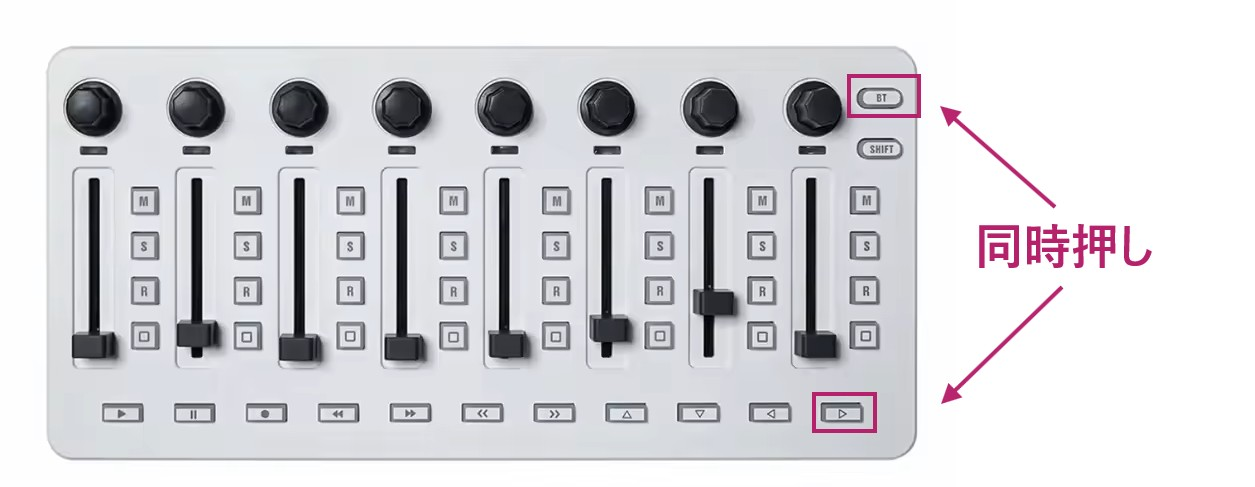
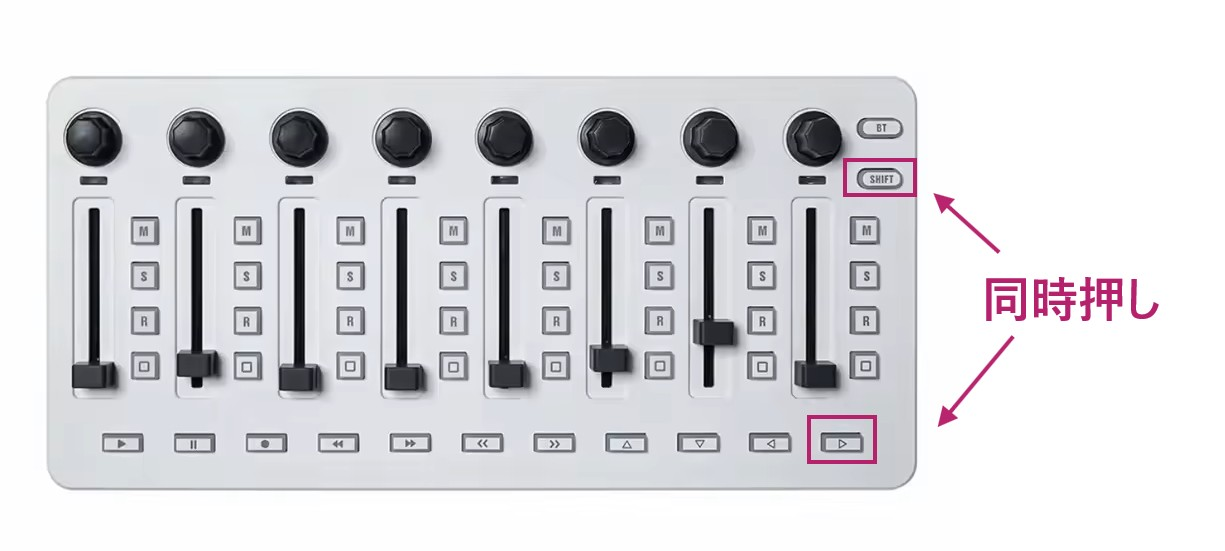
Build 2026-08-28 13:33:35

Changed region(s): [[0.031, 0.0924, 0.9616, 0.9548], [0.8065, 0.616, 0.8376, 0.6776]]

diff --git a/blog/2026/08/28/m-vave-smc-mixer-sh4derjockey/index.html b/blog/2026/08/28/m-vave-smc-mixer-sh4derjockey/index.html
@@ -204,7 +204,7 @@ text-gray-500 hover:bg-gray-100 hover:text-gray-900 dark:text-gray-300 dark:hove
     
     
   </div></nav><article class="w-full break-words flex min-h-[calc(100vh-var(--navbar-height))] min-w-0 justify-center pb-8 pr-[calc(env(safe-area-inset-right)-1.5rem)]"><main class="w-full min-w-0 max-w-6xl px-6 pt-4 md:px-12"><h1 class="mt-2 text-4xl font-bold tracking-tight text-slate-900 dark:text-slate-100" data-pagefind-meta=title data-pagefind-body>M-VAVE SMC-MixerをSh4derJockeyでワイヤレス利用する</h1><div class="mt-4 mb-16"><div class="text-gray-500 dark:text-gray-300 text-sm flex items-center flex-wrap gap-y-2"><span class=mr-1>Aug 28, 2026</span><span class=mx-1>·</span><div class="group inline-flex items-center text-current gap-x-1.5 mx-1"><img src=/media/authors/gam0022_hu_53cc7620d937d819.webp width=16 height=16 alt=gam0022 class="inline-block h-4 w-4 rounded-full border border-current" loading=lazy><div>gam0022</div></div><span class=mx-1>·</span>
-<span class=mx-1>7 min read</span></div><div class=mt-3></div></div><div class="article-header article-container featured-image-wrapper mt-4 mb-16" style=max-width:720px;max-height:405px><div style=position:relative><img srcset="/blog/2026/08/28/m-vave-smc-mixer-sh4derjockey/IMG_6858_hu_fd8ee1b1d63af9c8.webp 320w, /blog/2026/08/28/m-vave-smc-mixer-sh4derjockey/IMG_6858_hu_fbc32adf688050cd.webp 480w, /blog/2026/08/28/m-vave-smc-mixer-sh4derjockey/IMG_6858_hu_ce37842d0c3b878c.webp 640w, /blog/2026/08/28/m-vave-smc-mixer-sh4derjockey/IMG_6858_hu_5ccb41e8fb5055c6.webp 720w, /blog/2026/08/28/m-vave-smc-mixer-sh4derjockey/IMG_6858_hu_7ea46ed98e0dd1a1.webp 720w" sizes="(max-width: 480px) 100vw, (max-width: 640px) 90vw, (max-width: 720px) 80vw, 720px" src=/blog/2026/08/28/m-vave-smc-mixer-sh4derjockey/IMG_6858_hu_fd8ee1b1d63af9c8.webp data-pagefind-meta=image[src] width=720 height=405 alt class=featured-image fetchpriority=high></div></div><div class="prose prose-slate lg:prose-xl dark:prose-invert max-w-full main-content" data-pagefind-body><span data-pagefind-filter=type style=display:none>blog</span><p>M-VAVE SMC-Mixer（<a href=https://link.amazon/B0iX1y3Iu target=_blank rel=noopener>KORG nanoKONTROL2</a>によく似た形状のワイヤレス対応のMIDIコントコーラー）をAliExpressで購入したので、Windows 11へBluetooth MIDIで接続し、<a href=https://github.com/slerpyyy/sh4der-jockey target=_blank rel=noopener>Sh4derJockey</a>のMIDIコントローラーとしてワイヤレスで利用できるようにしました。</p><p>Windowsでは専用のBLE-MIDI接続ソフトが必要だったほか、配布されているSinco Connectorだけでは必要なDLLが不足してクラッシュする問題にも遭遇しました。本記事では、実際に接続できた手順とトラブルシューティングをまとめます。</p><blockquote class=twitter-tweet data-conversation=none><p lang=ja dir=ltr>アリエクで買ったMIDIコン（M-VAVE SMC-Mixer）が無事に届きました！<br><br>中国から発送なのに4日で届いてすごい…<br><br>電源つけたら光ってかっこいい✨<br><br>nanoKONTROL2と並べるとちょうど良さそうなサイズ感でした <a href=https://t.co/8DYq8m32JH>pic.twitter.com/8DYq8m32JH</a></p>&mdash; がむ (@gam0022) <a href="https://x.com/gam0022/status/2092221796804444382?ref_src=twsrc%5Etfw">August 25, 2026</a></blockquote><script async src=https://platform.x.com/widgets.js></script><h2 id=smc-mixerをuserccモードにする>SMC-MixerをUSER／CCモードにする</h2><p>SMC-Mixerの電源を入れ、<code>SHIFT</code>を押しながら右側のボタンを押します。</p><p><figure><div class="flex justify-center"><div class=w-full><img alt=SMC-MixerをUSER／CCモードにする srcset="/blog/2026/08/28/m-vave-smc-mixer-sh4derjockey/user_cc_mode_hu_6b9db82c7c14680c.webp 320w, /blog/2026/08/28/m-vave-smc-mixer-sh4derjockey/user_cc_mode_hu_7e41080a76330b1a.webp 480w, /blog/2026/08/28/m-vave-smc-mixer-sh4derjockey/user_cc_mode_hu_99ac897ce48fe153.webp 760w" sizes="(max-width: 480px) 100vw, (max-width: 768px) 90vw, (max-width: 1024px) 80vw, 760px" src=/blog/2026/08/28/m-vave-smc-mixer-sh4derjockey/user_cc_mode_hu_6b9db82c7c14680c.webp width=760 height=295 loading=lazy data-zoomable></div></div></figure></p><p><code>SHIFT</code>を押している間に右側のボタンが点灯すれば、USER／CCモードです。左側が点灯する場合はDAWモードです。</p><p>Sh4derJockeyではフェーダーやノブを通常のMIDI CCとして扱いたいため、USER／CCモードを使用します。</p><h2 id=sinco-connectorをインストールする>Sinco Connectorをインストールする</h2><p>WindowsでBLE-MIDIを利用するため、<a href=https://www.m-vave.com/download target=_blank rel=noopener>M-VAVE公式ダウンロードページ</a>の「Other Software」タブから「Sinco Connector」をインストールします。</p><p>SMC-Mixerの<code>BT</code>ボタンを長押しすると、青いランプが点滅してBluetooth接続待ちになります。Sinco Connectorを起動し、一覧から<code>SMC-Mixer</code>を選んで接続します。</p><p>接続に成功すると、本体の青いランプが点滅から点灯に変わります。</p><h2 id=sinco-connectorがconnectingの直後にクラッシュする問題>Sinco ConnectorがConnectingの直後にクラッシュする問題</h2><p>私の環境では、Sinco Connectorで<code>Connecting</code>と表示された直後にアプリが終了しました。Windowsのイベントログには、次の例外が記録されていました。</p><div class=highlight><pre tabindex=0 class=chroma><code class=language-text data-lang=text><span class=line><span class=cl>BTMidiConnector.exe
+<span class=mx-1>7 min read</span></div><div class=mt-3></div></div><div class="article-header article-container featured-image-wrapper mt-4 mb-16" style=max-width:720px;max-height:405px><div style=position:relative><img srcset="/blog/2026/08/28/m-vave-smc-mixer-sh4derjockey/IMG_6858_hu_fd8ee1b1d63af9c8.webp 320w, /blog/2026/08/28/m-vave-smc-mixer-sh4derjockey/IMG_6858_hu_fbc32adf688050cd.webp 480w, /blog/2026/08/28/m-vave-smc-mixer-sh4derjockey/IMG_6858_hu_ce37842d0c3b878c.webp 640w, /blog/2026/08/28/m-vave-smc-mixer-sh4derjockey/IMG_6858_hu_5ccb41e8fb5055c6.webp 720w, /blog/2026/08/28/m-vave-smc-mixer-sh4derjockey/IMG_6858_hu_7ea46ed98e0dd1a1.webp 720w" sizes="(max-width: 480px) 100vw, (max-width: 640px) 90vw, (max-width: 720px) 80vw, 720px" src=/blog/2026/08/28/m-vave-smc-mixer-sh4derjockey/IMG_6858_hu_fd8ee1b1d63af9c8.webp data-pagefind-meta=image[src] width=720 height=405 alt class=featured-image fetchpriority=high></div></div><div class="prose prose-slate lg:prose-xl dark:prose-invert max-w-full main-content" data-pagefind-body><span data-pagefind-filter=type style=display:none>blog</span><p>M-VAVE SMC-Mixer（<a href=https://link.amazon/B0iX1y3Iu target=_blank rel=noopener>KORG nanoKONTROL2</a>によく似た形状のワイヤレス対応のMIDIコントコーラー）をAliExpressで購入したので、Windows 11へBluetooth MIDIで接続し、<a href=https://github.com/slerpyyy/sh4der-jockey target=_blank rel=noopener>Sh4derJockey</a>のMIDIコントローラーとしてワイヤレスで利用できるようにしました。</p><p>Windowsでは専用のBLE-MIDI接続ソフトが必要だったほか、配布されているSinco Connectorだけでは必要なDLLが不足してクラッシュする問題にも遭遇しました。本記事では、実際に接続できた手順とトラブルシューティングをまとめます。</p><blockquote class=twitter-tweet data-conversation=none><p lang=ja dir=ltr>アリエクで買ったMIDIコン（M-VAVE SMC-Mixer）が無事に届きました！<br><br>中国から発送なのに4日で届いてすごい…<br><br>電源つけたら光ってかっこいい✨<br><br>nanoKONTROL2と並べるとちょうど良さそうなサイズ感でした <a href=https://t.co/8DYq8m32JH>pic.twitter.com/8DYq8m32JH</a></p>&mdash; がむ (@gam0022) <a href="https://x.com/gam0022/status/2092221796804444382?ref_src=twsrc%5Etfw">August 25, 2026</a></blockquote><script async src=https://platform.x.com/widgets.js></script><h2 id=smc-mixerをuserccモードにする>SMC-MixerをUSER／CCモードにする</h2><p>SMC-Mixerの電源を入れ、<code>SHIFT</code>を押しながら右側のボタンを押します。</p><p><figure><div class="flex justify-center"><div class=w-full><img alt=SMC-MixerをUSER／CCモードにする srcset="/blog/2026/08/28/m-vave-smc-mixer-sh4derjockey/user_cc_mode_hu_d34be60e0a4297f4.webp 320w, /blog/2026/08/28/m-vave-smc-mixer-sh4derjockey/user_cc_mode_hu_3895c591662f9571.webp 480w, /blog/2026/08/28/m-vave-smc-mixer-sh4derjockey/user_cc_mode_hu_dd2d88d077601f0b.webp 760w" sizes="(max-width: 480px) 100vw, (max-width: 768px) 90vw, (max-width: 1024px) 80vw, 760px" src=/blog/2026/08/28/m-vave-smc-mixer-sh4derjockey/user_cc_mode_hu_d34be60e0a4297f4.webp width=760 height=342 loading=lazy data-zoomable></div></div></figure></p><p><code>SHIFT</code>を押している間に右側のボタンが点灯すれば、USER／CCモードです。左側が点灯する場合はDAWモードです。</p><p>Sh4derJockeyではフェーダーやノブを通常のMIDI CCとして扱いたいため、USER／CCモードを使用します。</p><h2 id=sinco-connectorをインストールする>Sinco Connectorをインストールする</h2><p>WindowsでBLE-MIDIを利用するため、<a href=https://www.m-vave.com/download target=_blank rel=noopener>M-VAVE公式ダウンロードページ</a>の「Other Software」タブから「Sinco Connector」をインストールします。</p><p>SMC-Mixerの<code>BT</code>ボタンを長押しすると、青いランプが点滅してBluetooth接続待ちになります。Sinco Connectorを起動し、一覧から<code>SMC-Mixer</code>を選んで接続します。</p><p>接続に成功すると、本体の青いランプが点滅から点灯に変わります。</p><h2 id=sinco-connectorがconnectingの直後にクラッシュする問題>Sinco ConnectorがConnectingの直後にクラッシュする問題</h2><p>私の環境では、Sinco Connectorで<code>Connecting</code>と表示された直後にアプリが終了しました。Windowsのイベントログには、次の例外が記録されていました。</p><div class=highlight><pre tabindex=0 class=chroma><code class=language-text data-lang=text><span class=line><span class=cl>BTMidiConnector.exe
 </span></span><span class=line><span class=cl>System.DllNotFoundException
 </span></span><span class=line><span class=cl>BMIDI.GetPortIndexByName(...)
 </span></span></code></pre></div><p>Sinco Connectorの実行ファイルを調べると、問題のメソッドは次のDLLを呼び出していました。</p><div class=highlight><pre tabindex=0 class=chroma><code class=language-text data-lang=text><span class=line><span class=cl>bmidilib2.dll!BMIDI_GetPortIndexByName
